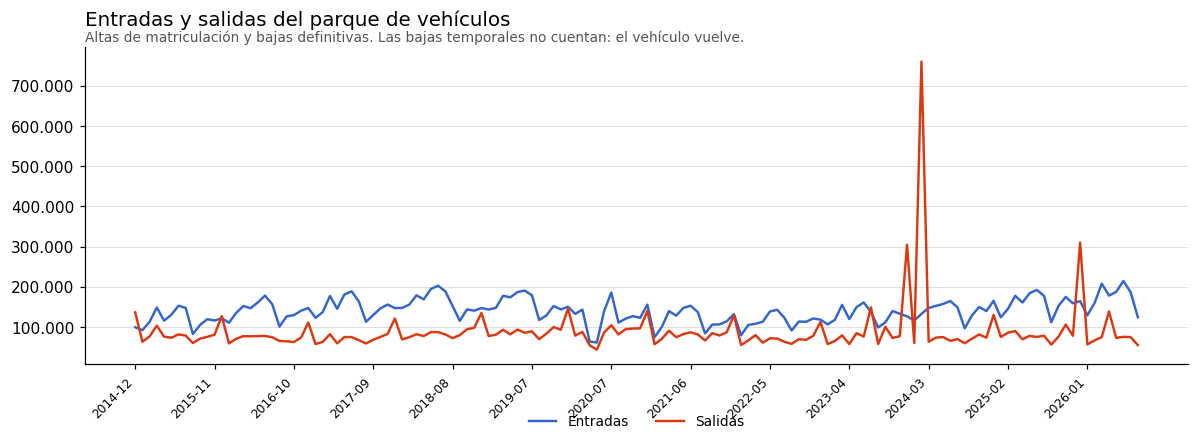
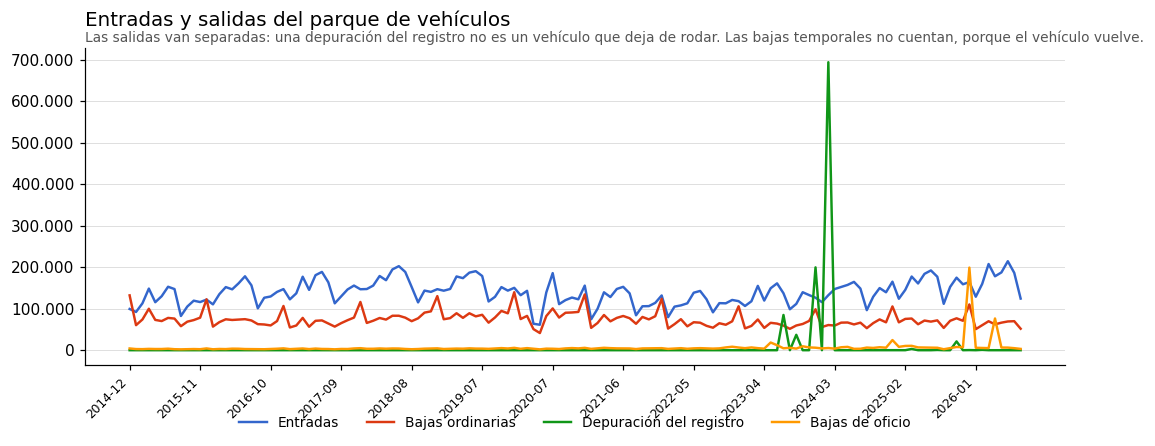
docs(stats): the 2024 spike is a register purge, not a market event
The chart showed 763.000 exits in February 2024 against a 90.000 average, and it
holds up: the DGT's own file for that month is 52,6 MB with 826.154 records. What
it is made of: 694.219 deregistrations under reason 4, 'otros motivos', where
January of the same year had zero, with a mean vehicle age of 50 years -- 334.397
registered in the seventies, 130.893 in the sixties, 130 from the 1920s and five
from 1900. Those vehicles did not stop driving in 2024, they stopped being on the
books. It was a campaign: 321.779 more in 2023 and another 199.177 written off ex
officio in December 2025.

Exits are therefore split in three in the chart and in the yearly table --
ordinary, register purge, ex officio -- because adding them up produces a chart
that lies. Ordinary exits turn out to be remarkably stable: 772.000 to 1.044.000
a year.

Also measured, and separate: December runs 60% above the average in ordinary
deregistrations and January is the minimum at -17%. The reading is ours and
labelled as such -- the circulation tax falls due on the 1st of January -- but the
pattern is not in doubt, and it means exits and entries need different
deseasonalisation.

Changed region(s): [[0.0, 0.0292, 0.9974, 0.964], [0.7481, 0.1169, 0.7792, 0.1461]]

diff --git a/analysis/monthly-series.py b/analysis/monthly-series.py
@@ -122,14 +122,23 @@ def main(argv):
     # ── 1. In and out of the fleet ──────────────────────────────────────────
     entries = dict(query("SELECT period::text, count(*)::text FROM spain.park_entry "
                          "GROUP BY period ORDER BY period"))
-    exits = dict(query("SELECT period::text, count(*)::text FROM spain.park_exit "
-                       "GROUP BY period ORDER BY period"))
+    # Exits split in three, because they are NOT the same thing and adding them
+    # up produces a chart that lies. In 2024-02 the DGT wrote off 694.219
+    # vehicles under reason 4, 'otros motivos', with a mean age of 50 years:
+    # those left the register, not the road. The same goes for the 199.177
+    # written off ex officio in 2025-12.
+    exits = query(
+        "SELECT period::text, "
+        "       CASE WHEN reason_code = '4' THEN 'Depuración del registro' "
+        "            WHEN reason_code IN ('A','B') THEN 'Bajas de oficio' "
+        "            ELSE 'Bajas ordinarias' END, count(*)::text "
+        "  FROM spain.park_exit GROUP BY 1, 2 ORDER BY 1")
     line_chart('altas-bajas.png',
                'Entradas y salidas del parque de vehículos',
-               'Altas de matriculación y bajas definitivas. Las bajas temporales no cuentan: el vehículo vuelve.',
+               'Las salidas van separadas: una depuración del registro no es un vehículo que deja de rodar. Las bajas temporales no cuentan, porque el vehículo vuelve.',
                months,
-               [('Entradas', [int(entries.get(m, 0)) for m in months]),
-                ('Salidas', [int(exits.get(m, 0)) for m in months])])
+               [('Entradas', [int(entries.get(m, 0)) for m in months])]
+               + [(k, v) for k, v in pivot(exits, months)])
 
     # ── 2 and 3. By size class: cars apart from everything else ─────────────
     by_class = query(

diff --git a/doc/estadisticas.md b/doc/estadisticas.md
@@ -8,7 +8,7 @@ Lo que NO se pone: nada por marca ni por modelo, porque el texto está sucio y n
 
 # Estadísticas y series mensuales
 
-Lo que dicen los datos cargados, medido el **2026-09-02** sobre **19.599.679 entradas** y **12.389.335 salidas** del parque, de diciembre de 2014 a agosto de 2026.
+Lo que dicen los datos cargados, medido el **2026-09-02** sobre **19.599.679 entradas** y **12.389.335 salidas** del parque, de diciembre de 2014 a agosto de 2026. De esas salidas, **1.042.271 no son vehículos que dejaron de rodar sino depuraciones del registro**, y por eso van siempre por separado: [ver más abajo](#la-depuración-de-2024-que-no-es-mercado).
 
 Todo esto se regenera con un comando, así que las cifras y los gráficos no se editan a mano:
 
@@ -28,23 +28,60 @@ Los conteos son de las vistas `spain.park_entry` y `spain.park_exit`, o sea que 
 
 ![Entradas y salidas del parque](img/altas-bajas.png)
 
-| Año | Entradas | Salidas | Saldo |
-|---|---:|---:|---:|
-| 2014 *(sólo diciembre)* | 99.421 | 136.489 | −37.068 |
-| 2015 | 1.445.217 | 966.836 | +478.381 |
-| 2016 | 1.685.210 | 890.470 | +794.740 |
-| 2017 | 1.807.444 | 885.376 | +922.068 |
-| 2018 | 1.936.058 | 1.038.292 | +897.766 |
-| 2019 | 1.891.278 | 1.092.649 | +798.629 |
-| 2020 | 1.373.847 | 975.305 | +398.542 |
-| 2021 | 1.422.027 | 988.535 | +433.492 |
-| 2022 | 1.367.284 | 855.175 | +512.109 |
-| 2023 | 1.556.699 | 1.181.397 | +375.302 |
-| 2024 | 1.699.418 | 1.582.617 | +116.801 |
-| 2025 | 1.923.845 | 1.177.693 | +746.152 |
-| 2026 *(hasta agosto)* | 1.391.931 | 618.501 | +773.430 |
+**Las salidas van separadas en tres, y no es un adorno: sumarlas produce un gráfico que miente.** De los 12.389.335 registros de baja definitiva, **1.042.271 —el 8,4 %— no son vehículos que dejaron de rodar, sino asientos administrativos**.
 
-Tres cosas se leen aquí. **El parque crece todos los años menos el primer mes**, con un saldo acumulado de 7,2 millones de vehículos en once años y ocho meses. **2020 se hunde**: las altas caen un 27 % respecto a 2019, y no se recuperan hasta 2025. Y **2024 es el año de las bajas**, con 1,58 millones, un 34 % más que el año anterior; el saldo de ese año es el más flojo de la serie.
+| Año | Entradas | Bajas ordinarias | Depuración del registro | De oficio |
+|---|---:|---:|---:|---:|
+| 2014 *(sólo diciembre)* | 99.421 | 132.233 | 0 | 4.256 |
+| 2015 | 1.445.217 | 932.252 | 0 | 34.584 |
+| 2016 | 1.685.210 | 853.753 | 128 | 36.589 |
+| 2017 | 1.807.444 | 845.187 | 23 | 40.166 |
+| 2018 | 1.936.058 | 994.388 | 25 | 43.879 |
+| 2019 | 1.891.278 | 1.043.806 | 7 | 48.836 |
+| 2020 | 1.373.847 | 930.193 | 6 | 45.106 |
+| 2021 | 1.422.027 | 935.588 | 9 | 52.938 |
+| 2022 | 1.367.284 | 795.974 | 7 | 59.194 |
+| 2023 | 1.556.699 | 772.103 | **321.779** | 87.515 |
+| 2024 | 1.699.418 | 803.335 | **694.304** | 84.978 |
+| 2025 | 1.923.845 | 876.719 | 25.184 | **275.790** |
+| 2026 *(hasta agosto)* | 1.391.931 | 503.884 | 799 | 113.818 |
+
+**Las bajas ordinarias son notablemente estables**: entre 772.000 y 1.044.000 al año, con una media de 889.000 en 2015-2025. Ésa es la serie que se puede usar para cualquier cosa; las otras dos columnas son actos administrativos y hay que tratarlas como tales.
+
+### La depuración de 2024, que no es mercado
+
+El pico de **763.000 salidas en febrero de 2024** es una depuración del registro, y se puede demostrar sin salir de los datos:
+
+- El fichero de la DGT de ese mes pesa **52,6 MB con 826.154 registros**, seis veces uno normal, así que el pico está en origen y no en nuestra carga.
+- **694.219 de esas bajas llevan el motivo `4`, «Otros motivos»**, cuando en enero del mismo año hubo **cero** de ese motivo y todo lo demás siguió en su nivel habitual: 48.588 voluntarias contra 44.186 el mes anterior, 66.011 temporales contra 67.353.
+- Y sobre todo, **la edad de esos vehículos**: 334.397 se matricularon en los años 70 y 130.893 en los 60, con una edad media de **50 años**; hay 130 de la década de 1920 y cinco de 1900. No dejaron de circular en 2024: **dejaron de constar**.
+
+La operación no fue puntual, sino una campaña: 321.779 bajas del mismo motivo en 2023 —repartidas en julio, septiembre y diciembre—, las 694.304 de 2024 y unas pocas más en 2025. Y en **diciembre de 2025** hay otra distinta: **199.177 bajas «de oficio por abandono»** en un mes, contra 7.208 el mes anterior; de ahí que las de oficio de 2025 tripliquen las de cualquier año previo.
+
+**Lo que esto demuestra, y es la conclusión útil**: el registro contaba como vivos casi 700.000 vehículos que llevaban medio siglo parados. Confirma con números lo que [fuente.md](fuente.md#limitaciones-que-condicionan-cualquier-uso) ya advertía —**esto es un fichero de eventos, no un censo del parque**— y quita valor a cualquier «parque circulante» calculado como altas menos bajas: ni la cifra de antes de la depuración ni la de después son el parque real.
+
+### Diciembre, un 60 % por encima, y es fiscal
+
+Medida la estacionalidad de las bajas **ordinarias** entre 2015 y 2025, sin depuraciones ni bajas de oficio, el patrón es inequívoco:
+
+| Mes | Media mensual | Desviación |
+|---|---:|---:|
+| enero | 60.812 | −17 % |
+| febrero | 68.683 | −6 % |
+| marzo | 76.329 | +4 % |
+| abril | 61.328 | −16 % |
+| mayo | 70.736 | −4 % |
+| junio | 74.145 | +1 % |
+| julio | 73.671 | 0 % |
+| agosto | 60.811 | −17 % |
+| septiembre | 71.192 | −3 % |
+| octubre | 75.551 | +3 % |
+| noviembre | 78.394 | +7 % |
+| **diciembre** | **117.735** | **+60 %** |
+
+Diciembre es el máximo con diferencia y enero el mínimo, y el salto entre los dos meses consecutivos es de un factor de casi dos. **La interpretación es nuestra, no un dato de la fuente**: el impuesto de vehículos de tracción mecánica se devenga el 1 de enero, así que quien no va a usar el vehículo tiene un mes de plazo para darlo de baja y no pagarlo. Encaja también con el mínimo de abril y agosto, que son los meses en los que nadie hace papeleo.
+
+Para cualquier serie que se publique, esto significa que **las bajas necesitan desestacionalización y las altas otra distinta**, porque sus estacionalidades no tienen el mismo origen.
 
 ## Turismos por tamaño: el mercado engorda
 

diff --git a/doc/fuente.md b/doc/fuente.md
@@ -102,6 +102,8 @@ Los campos se agrupan así:
 
 **Los campos que se han ido añadiendo no están rellenos hacia atrás.** El diseño de registro es el de hoy, pero el histórico arranca en 2014-12: los campos de vehículo eléctrico, consumo, autonomía o vehículo base no pueden existir en los primeros años con la misma cobertura. Cuánto y desde cuándo hay que **medirlo** al cargar, no suponerlo.
 
+**Las bajas incluyen depuraciones administrativas masivas, y no vienen marcadas como tales.** Medido: en febrero de 2024 la DGT dio de baja **694.219 vehículos con el motivo `4`, «Otros motivos»**, con una edad media de 50 años —la mayoría matriculados en los años 60 y 70—, y en diciembre de 2025 otros 199.177 «de oficio por abandono». Son asientos del registro, no vehículos que dejan de circular, y suman el 8,4 % de todas las bajas de la serie. Quien sume bajas sin separar por motivo estará contando como desaparecidos en 2024 vehículos que dejaron de rodar en los ochenta. El detalle, con las cifras y la campaña completa, en [estadisticas.md](estadisticas.md#la-depuración-de-2024-que-no-es-mercado).
+
 **Y la geografía es la del domicilio, no la del punto de venta.** `COD_PROVINCIA_VEH` es donde está domiciliado el vehículo y `COD_PROVINCIA_MAT` donde se matriculó; ninguno de los dos es dónde se vendió. En las flotas de renting y en las empresas de alquiler la divergencia es grande y sistemática, no ruido.
 
 ## Las otras fuentes de la DGT
